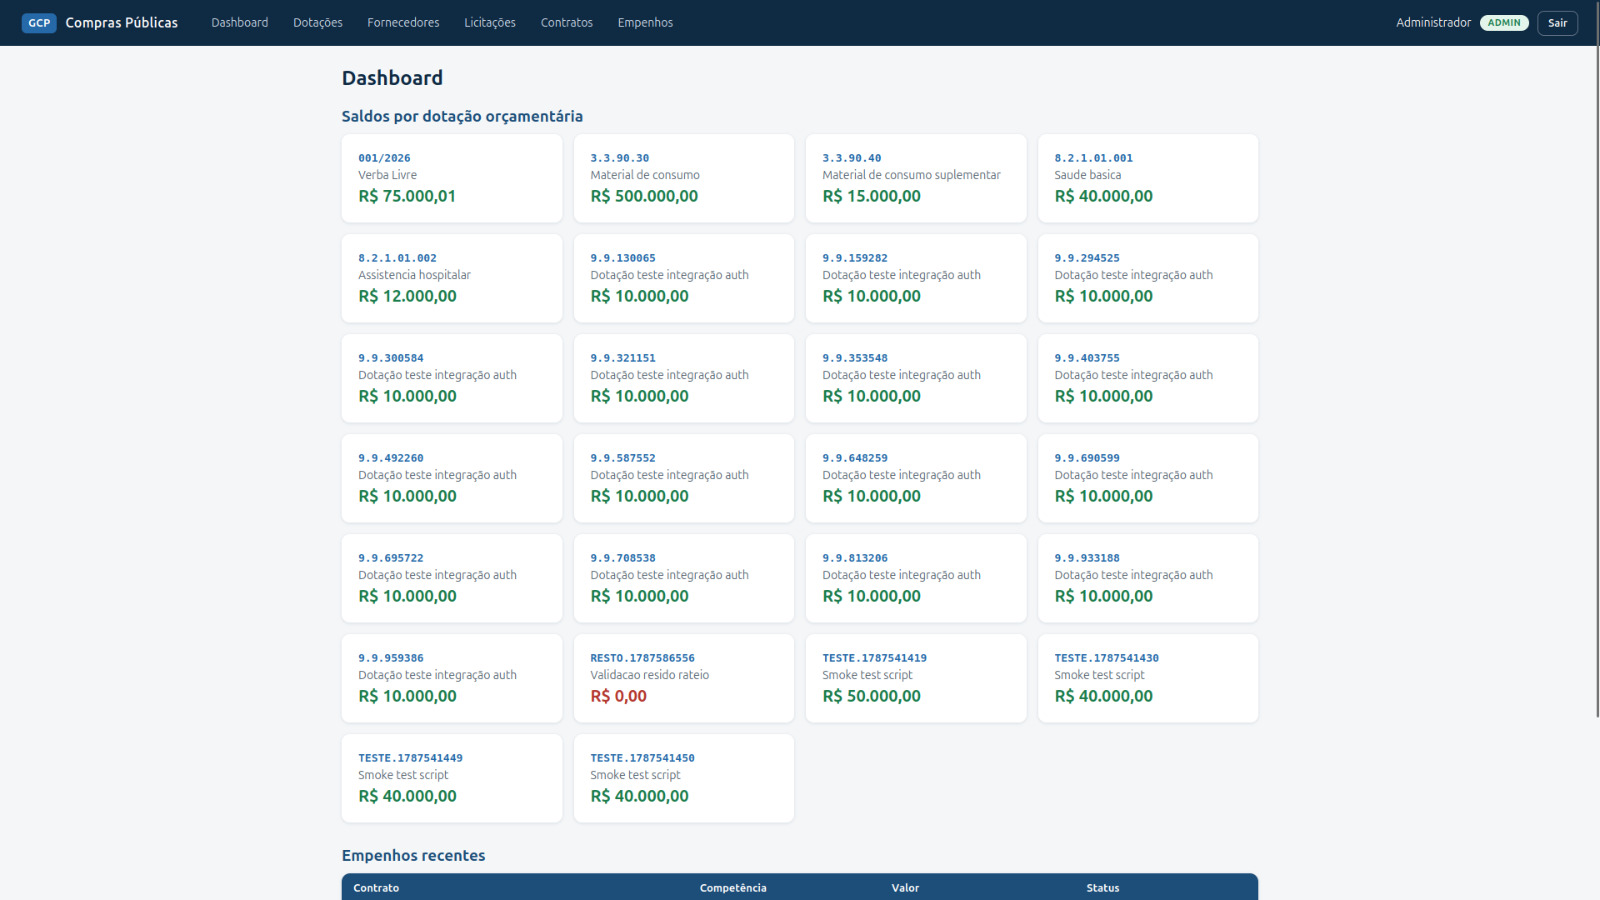
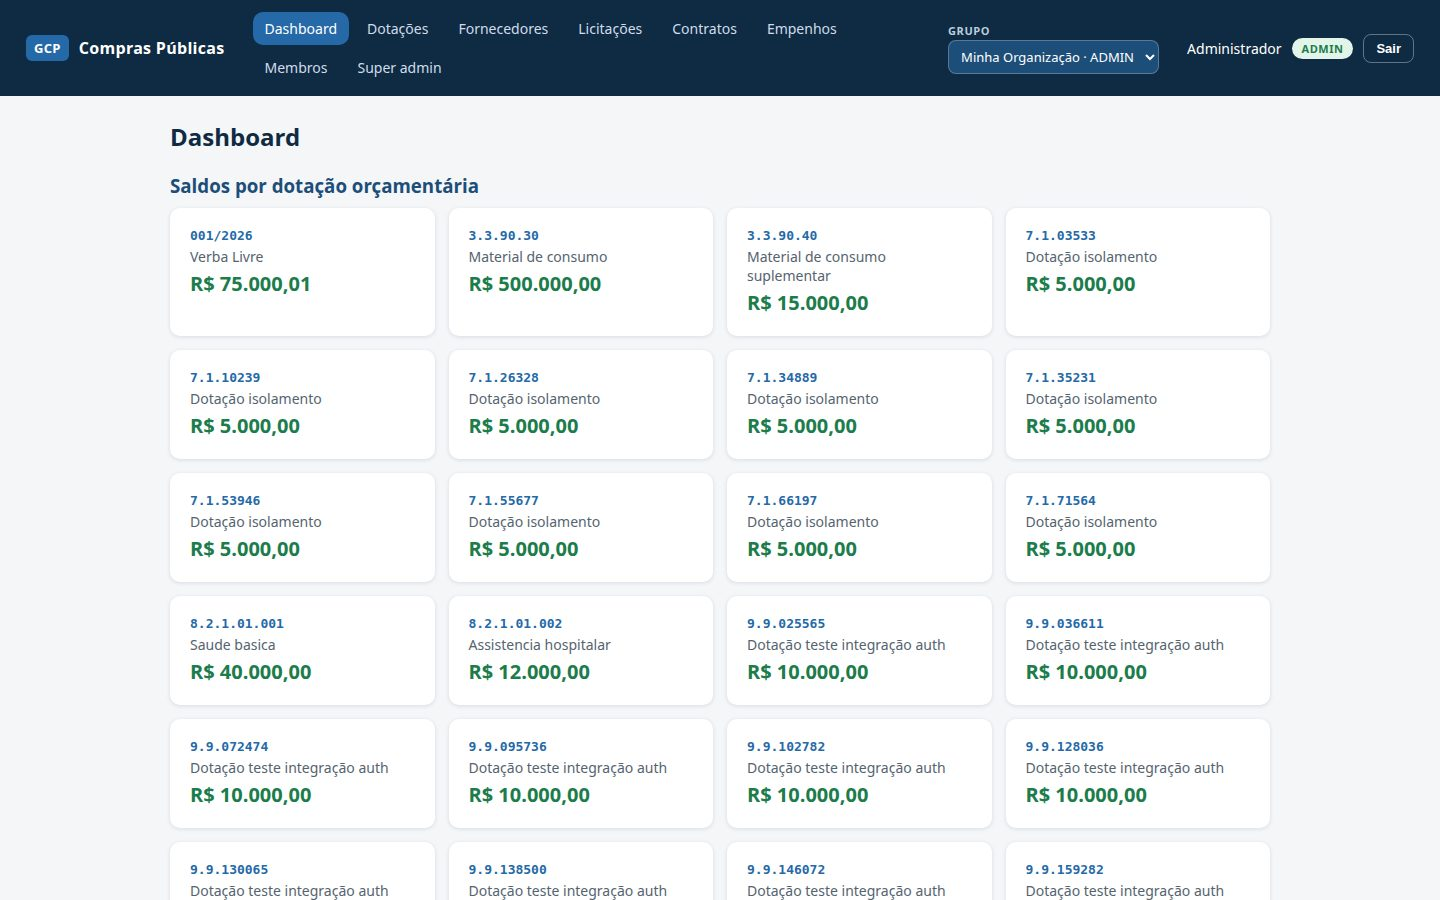
docs: refresh UI screenshots for multitenancy

diff --git a/docs/guia-de-desenvolvimento.md b/docs/guia-de-desenvolvimento.md
@@ -510,3 +510,4 @@ git push
 | 2026-09-07 | opencode/big-pickle | **Programa multitenancy — Fase 4 implementada e validada (aguardando commit)**: backend mínimo `/api/admin/**` (só `SUPER_ADMIN`): lista usuários, altera perfil (proíbe rebaixar-se e derrubar o último super admin) e lista organizações com nº de membros (`AdminService`/`AdminController` + `countByPerfil`) → **143/143** backend. Front: `/app/membros` com abas membros+convites (adicionar por e-mail, trocar papel, remover; convite por e-mail OU código, listar/revogar) e `/app/superpainel` oculto (link só para `SUPER_ADMIN`; rota redireciona os demais) com abas usuários (troca de perfil) e organizações; navbar ganhou "Membros" e "Super admin"; `oxlint` limpo, Vitest 34/34, `vite build` OK. Pendência: commit da Fase 4. Próximo: Fase 5 (fechamento). |
 | 2026-09-07 | opencode/big-pickle | **Programa multitenancy — Fase 2 (API de grupos/membros/convites + cadastro público) implementada e validada, aguardando commit** (`96d498a`, executado depois). `/api/organizacoes`: criar (autenticado, criador vira ADMIN), listar os meus com papel, buscar, renomear (ADMIN); `/membros`: listar (membro), adicionar por e-mail existente, alterar papel/remover (ADMIN) com proteções (criador não pode ser rebaixado/removido; ninguém altera a própria participação; sobra sempre um ADMIN); `/convites`: criar por e-mail **ou** código (XOR, 400), listar pendentes/revogar (ADMIN), `aceitar {codigo}` e `aceitar-email`; `POST /api/auth/register` voltou a ser **público**; `SecurityConfig` com regras específicas de orgs/convites e CORS liberando o header `X-Org-Id`. Testes: `OrganizacaoServiceTest` (15) + `ConviteServiceTest` (17) + `OrganizacoesIntegrationTest` (8 e2e) → **136/136** verdes. |
 | 2026-09-07 | opencode/big-pickle | **Programa multitenancy — Fase 5 (Fechamento) implementada e validada (aguardando commit)**: `scripts/test-api.sh` reescrito para o programa — 45 verificações end-to-end cobrindo o fluxo de negócio com `X-Org-Id` e o ciclo multitenancy (cadastro público, grupos, membros, convites por código/e-mail, papéis por grupo, isolamento, painel `/api/admin/**`); org do negócio resolvida dinamicamente via `/auth/me`; negativos 401/400/403/409. **Bug real encontrado pelo smoke e corrigido**: uniques globais legadas (nomes gerados pelo Hibernate `ddl-auto` pré-Flyway) não foram derrubadas pela V4 (que usava nomes hardcoded) — CNPJ/código/edital/número continuavam únicos entre todos os grupos; fix `V5__drop_legacy_global_uniques.sql` (DO block dinâmico por coluna única, preservando `uk_*_org_*`), aplicado no boot ("Successfully applied v5"). Smoke re-rodado → **45/45**; diagrama `modelo-dados.mermaid` conferido (OK); README/guia atualizados (roadmap F5 `[x]`, migrations V1–V5, plano de commits F1–F5). Programa multitenancy completo; pendência única: commit do usuário (seção 7). |
+| 2026-09-07 | opencode/big-pickle | **A2 concluído — 10 prints renovados + bug de roteamento encontrado e corrigido**. (1) **Bug real no frontend**: as rotas filhas do `<Routes>` dentro do `LayoutApp` usavam caminhos absolutos (`path="/app/empenhos"`…) sob o pai `path="/app/*"` — inválido em React Router 7: **nenhuma página filha abria** (o fallback `*` redirecionava tudo para `/app`, sem erro no console). Documentado empiricamente via Playwright (login → SPA click → hard reload); fix: `LayoutApp` passou a usar rotas **relativas** (`index` + `path="empenhos"` etc.) — padrão correto para `<Routes>` descendente. Dashboard/Empenhos/Membros/Super painel renderizam até em hard reload em links profundos. (2) **Prints (A2)**: scripts de captura Playwright (`chrome` headless + `playwright-core`, em `/tmp`, não versionados) regeneraram os 10 screenshots de `docs/img/` cobrindo a UI multitenancy: landing, cadastro, login, onboarding, seletor de grupo, dashboard, empenhos, membros, membros-convites e super painel; dados de demonstração semeveados via API (usuários ana.nova/0 grupos ↔ onboarding, bruno.multi/2 grupos ↔ seletor, maria + convites pendentes ↔ membros). README: seção "Prints do sistema" reescrita com os 10 prints. Frontend validado: `oxlint` limpo, Vitest 34/34, `tsc -b && vite build` OK. |
